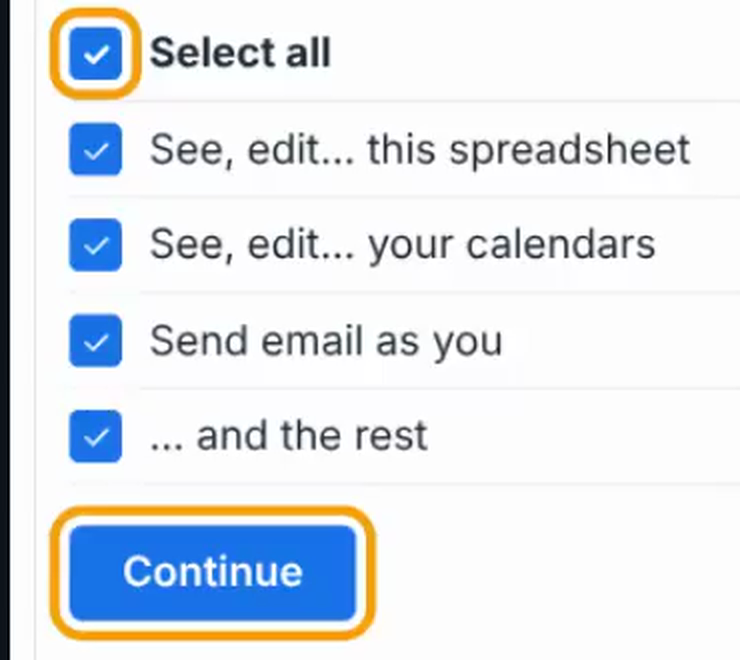
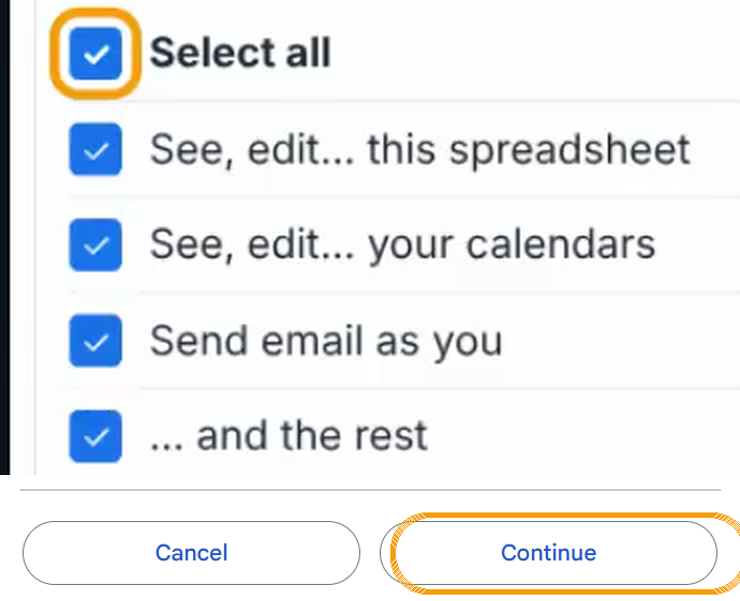
2026.11.314: Select all + Continue in one step
Claude-Session: https://claude.ai/code/session_01R2kV4GW3UVFR51NzUKtdLQ

Changed region(s): [[0.0, 0.3295, 1.0, 1.0], [0.0622, 0.0, 0.9324, 0.2995]]

diff --git a/setup/guide/float.js b/setup/guide/float.js
@@ -16,10 +16,9 @@
         ['script', 'Click the blue <b>Deploy</b> button', 'Bottom right of the “New deployment” box. <span class="mute">Hidden behind this window? Drag this window by its top bar.</span>', V + 'p-deploy.png', 'small'],
         ['script', 'Click <b>Authorize access</b>', 'A small Google window pops up. <span class="mute">If it asks which account, choose the family one. Google may also ask you to confirm it’s you on your phone – do that, then come back.</span>', V + 'v-authorize.mp4'],
         ['popup', 'Click <b>Advanced</b>, then <b>Go to HouseRunner (unsafe)</b>', 'Google says it hasn’t verified this app – that’s normal: it’s your own private copy, and the “developer” it names is you (your own email). <b>Advanced</b> is small, at the bottom left; <b>Go to HouseRunner (unsafe)</b> then appears under it.', V + 'p-advanced.png'],
-        ['popup', 'Tick <b>Select all</b>', 'At the top of the list. Every permission is needed for your dashboard to work.', V + 'p-selectall.png'],
-        ['popup', 'Click <b>Continue</b>', 'The pop-up closes. Back in Apps Script, wait a few seconds for <b>“Deployment successfully created”</b> (or “updated”).', V + 'p-selectall.png'],
+        ['popup', 'Tick <b>Select all</b>, then click <b>Continue</b>', '<b>Select all</b> is at the top of the list – every permission is needed. <b>Continue</b> is at the bottom right (scroll down if you can’t see it). The pop-up then closes: back in Apps Script, wait a few seconds for <b>“Deployment successfully created”</b> (or “updated”).', V + 'p-selectall.png'],
         ['script', 'Click the link under <b>Web app</b>', 'It starts <b>https://script.google.com/macros</b>. A new tab opens – it can take up to a minute to get your Sheet ready.<br><span class="mute">Clicked <b>Done</b> by mistake? Don’t deploy again: click <b>Deploy → Manage deployments</b>, then the link under <b>Web app</b>.</span>', V + 'v-weburl.mp4'],
-        ['pub', 'Click <b>▶ Back to HouseRunner setup</b>', 'On the page that says <b>✅ Published!</b> Setup then carries on in your HouseRunner setup tab by itself.<br><span class="mute">Closed that page by mistake? In your Sheet, click <b>🏠 HouseRunner</b> → <b>▶ Click here to start step 12</b>.</span>', V + 'p-published.png'],
+        ['pub', 'Click <b>▶ Back to HouseRunner setup</b>', 'On the page that says <b>✅ Published!</b> Setup then carries on in your HouseRunner setup tab by itself.<br><span class="mute">Closed that page by mistake? In your Sheet, click <b>🏠 HouseRunner</b> → <b>▶ Click here to start step 11</b>.</span>', V + 'p-published.png'],
         ['tabs', 'Close every tab except <b>HouseRunner setup</b>', 'Click the ✕ on your Sheet’s tab, the Apps Script tab and the “Published” tab. Your Sheet keeps working without being open.', 'tabs']
     ];
     var WHERE = {

diff --git a/index.html b/index.html
@@ -24,11 +24,11 @@
         window.FD_DESK = true; window.FD_PHONE = !!phone;
     })();
     </script>
-    <link rel="stylesheet" href="shared/base.css?v=202611313">
-    <link rel="stylesheet" href="admin/admin.css?v=202611313">
-    <link rel="stylesheet" href="setup/desk.css?v=202611313">
-    <link rel="stylesheet" href="setup/editor.css?v=202611313">
-    <link rel="stylesheet" href="admin/phone.css?v=202611313">
+    <link rel="stylesheet" href="shared/base.css?v=202611314">
+    <link rel="stylesheet" href="admin/admin.css?v=202611314">
+    <link rel="stylesheet" href="setup/desk.css?v=202611314">
+    <link rel="stylesheet" href="setup/editor.css?v=202611314">
+    <link rel="stylesheet" href="admin/phone.css?v=202611314">
     <style>
 #landing { min-height: 100vh; }
 #landing .ld-wrap { max-width: 1100px; margin: 0 auto; padding: 30px 18px 50px; }
@@ -206,20 +206,20 @@
     </div></div>
     <!-- Connected: houserunner.app (computer) or Family Admin (phone) – the same app. -->
     <div id="app"></div>
-    <script src="shared/storecheck.js?v=202611313"></script>
-    <script src="shared/fd.js?v=202611313"></script>
-    <script src="dashboard/scripts/platform.js?v=202611313"></script>
-    <script src="shared/pair.js?v=202611313"></script>
-    <script src="shared/qrcode.js?v=202611313"></script>
-    <script src="shared/privacy.js?v=202611313"></script>
-    <script src="shared/countries.js?v=202611313"></script>
-    <script src="setup/config.js?v=202611313"></script>
-    <script src="help/topics.js?v=202611313"></script>
-    <script src="setup/editor.js?v=202611313"></script>
-    <script src="setup/calsetup.js?v=202611313"></script>
-    <script src="shared/icons.js?v=202611313"></script>
+    <script src="shared/storecheck.js?v=202611314"></script>
+    <script src="shared/fd.js?v=202611314"></script>
+    <script src="dashboard/scripts/platform.js?v=202611314"></script>
+    <script src="shared/pair.js?v=202611314"></script>
+    <script src="shared/qrcode.js?v=202611314"></script>
+    <script src="shared/privacy.js?v=202611314"></script>
+    <script src="shared/countries.js?v=202611314"></script>
+    <script src="setup/config.js?v=202611314"></script>
+    <script src="help/topics.js?v=202611314"></script>
+    <script src="setup/editor.js?v=202611314"></script>
+    <script src="setup/calsetup.js?v=202611314"></script>
+    <script src="shared/icons.js?v=202611314"></script>
     <!-- A phone gets Family Admin, written for the phone; a computer houserunner.app. -->
-    <script>document.write('<script src="admin/' + (window.FD_PHONE ? 'phone' : 'app') + '.js?v=202611313"><\/script>');</script>
+    <script>document.write('<script src="admin/' + (window.FD_PHONE ? 'phone' : 'app') + '.js?v=202611314"><\/script>');</script>
 <script>
  (function () {
    'use strict';

diff --git a/setup/guide/index.html b/setup/guide/index.html
@@ -6,8 +6,8 @@
     <title>HouseRunner Setup</title>
     <meta name="theme-color" content="#0c0e12">
     <link rel="icon" href="../../shared/brand/icon-192.png"><link rel="apple-touch-icon" href="../../shared/brand/apple-touch-icon.png">
-    <link rel="stylesheet" href="../editor.css?v=202611313">
-    <link rel="stylesheet" href="setup.css?v=202611313">
+    <link rel="stylesheet" href="../editor.css?v=202611314">
+    <link rel="stylesheet" href="setup.css?v=202611314">
 </head>
 <body>
     <header class="cfg-top"><a class="cfg-title hr-title" href="../../"><img src="../../shared/brand/mark.svg" alt="" class="hr-mini"><span>House<span class="hr-acc">Runner</span></span></a><a class="cfg-dash" href="../../dashboard/" target="_blank" rel="noopener">▶ Dashboard</a><a class="cfg-help" href="../../help/" target="_blank" rel="noopener">❓ Help</a></header>
@@ -29,9 +29,9 @@
     <script src="../../shared/countries.js"></script>
     <script src="../../shared/pair.js"></script>
     <script src="../../shared/qrcode.js"></script>
-    <script src="../calsetup.js?v=202611313"></script>
-    <script src="../../shared/storecheck.js?v=202611313"></script>
-    <script src="float.js?v=202611313"></script>
-    <script src="setup.js?v=202611313"></script>
+    <script src="../calsetup.js?v=202611314"></script>
+    <script src="../../shared/storecheck.js?v=202611314"></script>
+    <script src="float.js?v=202611314"></script>
+    <script src="setup.js?v=202611314"></script>
 </body>
 </html>

diff --git a/sw.js b/sw.js
@@ -1,6 +1,6 @@
 /* Keeps houserunner.app (the Configurator / Family Admin) available offline. Family data always comes live from Google.
  * The screen, the Family Calendar app and the licence pages look after themselves, so they're left alone here. */
-const CACHE = 'root-v167';
+const CACHE = 'root-v168';
 const FILES = ["./", "index.html", "manifest.webmanifest", "admin/app.js", "admin/phone.js", "admin/phone.css", "admin/admin.css", "admin/icons/icon-192.png", "setup/desk.css", "setup/editor.css", "setup/editor.js", "setup/calsetup.js", "setup/config.js",
   "help/topics.js", "shared/fd.js", "shared/head.js", "shared/storecheck.js", "shared/move.js", "shared/busy.js", "shared/base.css", "shared/brand/mark.svg", "shared/privacy.js", "shared/countries.js", "shared/icons.js", "shared/pair.js", "shared/qrcode.js"];
 const OWN = /^\/(screen|dashboard|calendar|licencing|windows|downloads|Scripts)\//;

diff --git a/admin/sw.js b/admin/sw.js
@@ -1,5 +1,5 @@
 /* Keeps the app itself available offline. Calendar and points data always come live from Google. */
-const CACHE = 'admin-v316';
+const CACHE = 'admin-v317';
 const FILES = ["./", "index.html", "app.js", "admin.css", "manifest.webmanifest", "icons/icon-192.png", "../shared/fd.js", "../shared/storecheck.js", "../shared/move.js", "../shared/base.css", "../shared/brand/symbol.svg", "../shared/privacy.js", "../shared/countries.js", "../shared/pair.js", "../shared/qrcode.js"];
 self.addEventListener('install', e => { e.waitUntil(caches.open(CACHE).then(c => c.addAll(FILES)).then(() => self.skipWaiting())); });
 self.addEventListener('activate', e => { e.waitUntil(caches.keys().then(ks => Promise.all(ks.filter(k => k.startsWith('admin-') && k !== CACHE).map(k => caches.delete(k)))).then(() => self.clients.claim())); });

diff --git a/calendar/sw.js b/calendar/sw.js
@@ -1,5 +1,5 @@
 /* Keeps the app itself available offline. Calendar and points data always come live from Google. */
-const CACHE = 'calendar-v304';
+const CACHE = 'calendar-v305';
 const FILES = ["./", "index.html", "app.js", "calendar.css", "manifest.webmanifest", "icons/icon-192.png", "../shared/fd.js", "../shared/storecheck.js", "../shared/move.js", "../shared/base.css", "../shared/brand/symbol.svg", "../shared/pair.js", "../shared/qrcode.js"];
 self.addEventListener('install', e => { e.waitUntil(caches.open(CACHE).then(c => c.addAll(FILES)).then(() => self.skipWaiting())); });
 self.addEventListener('activate', e => { e.waitUntil(caches.keys().then(ks => Promise.all(ks.filter(k => k.startsWith('calendar-') && k !== CACHE).map(k => caches.delete(k)))).then(() => self.clients.claim())); });

diff --git a/shared/fd.js b/shared/fd.js
@@ -191,7 +191,7 @@
         clearConfig: function () { cfg = {}; try { localStorage.removeItem(KEY); } catch (e) { /* ignore */ } },
         parseSetup: parseSetup,
 
-        VERSION: '2026.11.313',     // the phone apps' version (same number as the screen's)
+        VERSION: '2026.11.314',     // the phone apps' version (same number as the screen's)
         get: function (action, params, timeout) {
             var q = 'action=' + encodeURIComponent(action) + '&code=' + encodeURIComponent(cfg.code) + '&t=' + Date.now();
             Object.keys(params || {}).forEach(function (k) { q += '&' + k + '=' + encodeURIComponent(params[k]); });

diff --git a/dashboard/scripts/notices.js b/dashboard/scripts/notices.js
@@ -6,7 +6,7 @@
  */
 (function () {
     'use strict';
-    var APP_VERSION = '2026.11.313';
+    var APP_VERSION = '2026.11.314';
     var SNOOZE_KEY = 'familyDashboard.updateSnooze', SCRIPT_KEY = 'familyDashboard.scriptNag';
     var latest = null, lastLayout = null, privacyOpen = false, lastTouch = Date.now(), updating = false;
     var IDLE_MS = 3 * 60000;
